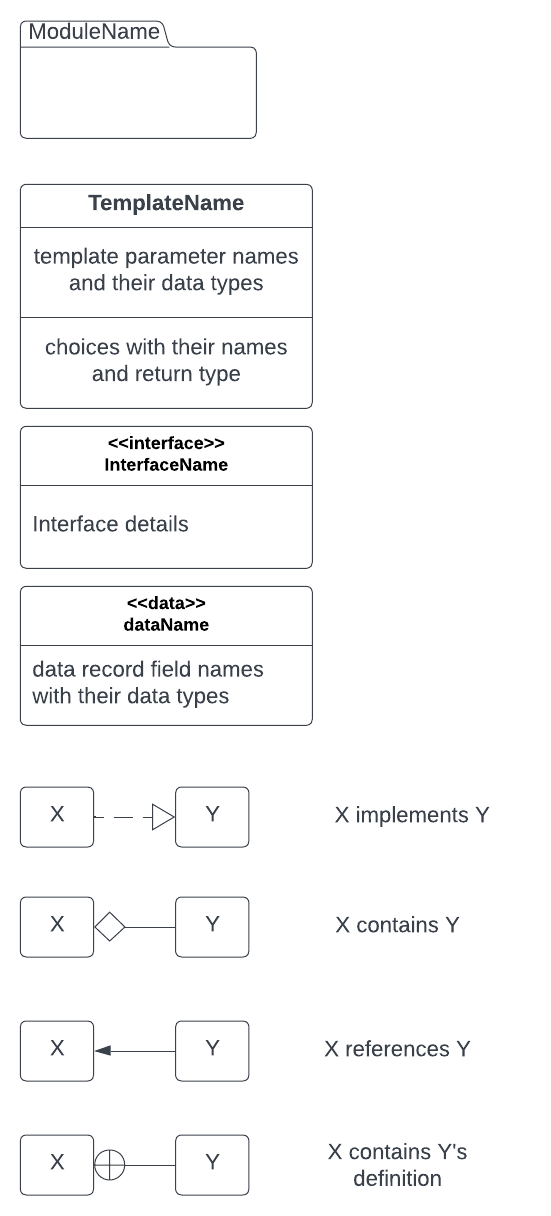
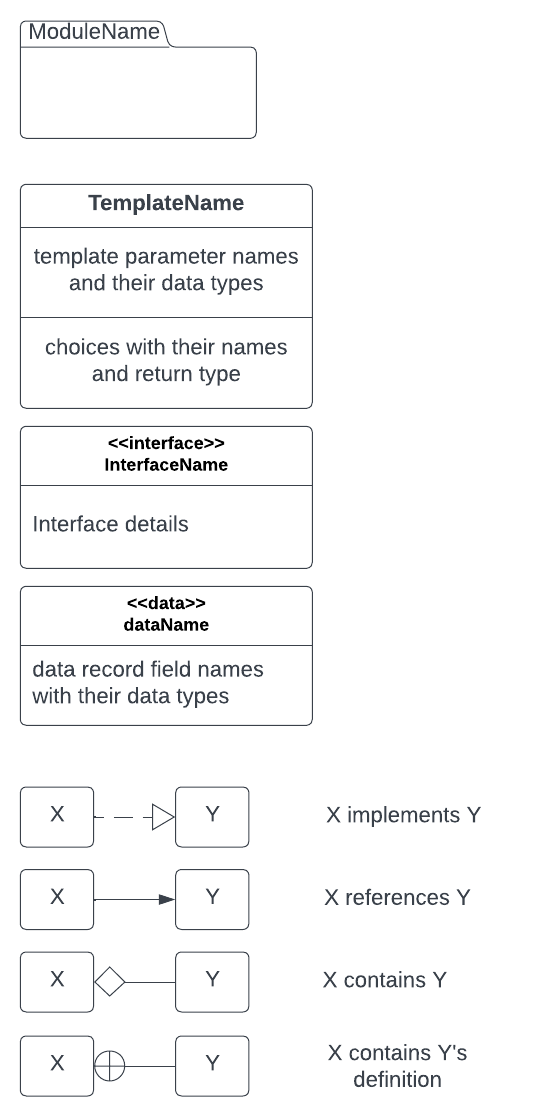
Fixed diagram notations

diff --git a/Module2/DamlInterfaces.md b/Module2/DamlInterfaces.md
@@ -6,11 +6,11 @@ Daml interface is an abstract type whose behavior is specified by:
 - method signatures
 - choices
 
-The abstraction specified in an interface is implemented by a template by: 
+The abstraction specified in an interface is implemented in a template by: 
 
 - creating an instance of the interface
 - providing values for ‘view’ record
-- implementing the choices and functions
+- implementing the choices and methods
 
 Let us take an example to understand how this works. Let us think of a Library that loans out different types of media, such as Books and Discs, to its patrons.
 
